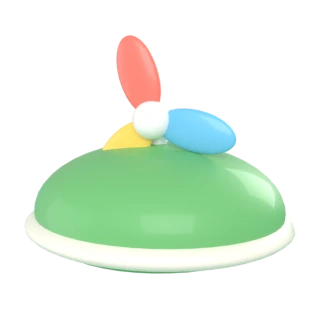
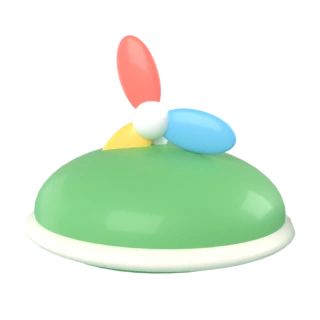
Fix stamp overlap for long landmark names and restore rig state after frame check
Review of the landmark PR found the visit stamp covering the pin for 대관령 옛길, and Rig.extent leaving the light rig yawed so thumbnails rendered on their own were lit differently from the existing ones. Re-rendered the two new thumbnails with the restored lighting and corrected stale counts in the docs.

diff --git a/app/src/main/java/com/example/roro/ui/screens/Popups.kt b/app/src/main/java/com/example/roro/ui/screens/Popups.kt
@@ -475,16 +475,21 @@ fun LandmarkUnlockModal(p: PendingPopup.Landmark, profile: Profile, equipped: Eq
         }
         LandmarkPin(PinState.Unlocked, Modifier.offset(x = (470f * scale).dp, y = (150f * scale).dp).size((64f * scale).dp))
         Box(
-            // Split은 도장 글자를 줄이지 않아 폭이 넓다: 핀(470)에 닿지 않게 왼쪽으로 당긴다
-            Modifier.offset(x = ((if (split) 270f else 300f) * scale).dp, y = (200f * scale).dp)
-                // 도장: 크게 떠 있다가 쿵 찍힌다
-                .graphicsLayer { val t = stamp.value; scaleX = 1.9f - 0.9f * t; scaleY = 1.9f - 0.9f * t; alpha = t.coerceIn(0f, 1f) }
-                .rotate(-10f)
-                .border((2f * scale).dp, KagomColor.Accent.stamp, RoundedCornerShape(10.dp)).padding(horizontal = (12f * scale).dp, vertical = (6f * scale).dp),
+            // 이름이 길면("대관령 옛길 방문") 도장이 넓어져 핀(470, 150~214)을 덮는다.
+            // Full: 오른쪽 끝을 핀 앞에 맞춰 왼쪽으로 늘어나게 한다.
+            // Split: 글자를 줄이지 않아 곰과 핀 사이에 다 들어가지 않는다 → 핀 아래로 내려 오른쪽으로 늘어나게 한다
+            Modifier.offset(x = ((if (split) 270f else 150f) * scale).dp, y = ((if (split) 240f else 200f) * scale).dp).width((312f * scale).dp),
+            contentAlignment = if (split) Alignment.TopStart else Alignment.TopEnd,
         ) {
-            Column(horizontalAlignment = Alignment.CenterHorizontally) {
+            Column(
+                // 도장: 크게 떠 있다가 쿵 찍힌다
+                Modifier.graphicsLayer { val t = stamp.value; scaleX = 1.9f - 0.9f * t; scaleY = 1.9f - 0.9f * t; alpha = t.coerceIn(0f, 1f) }
+                    .rotate(-10f)
+                    .border((2f * scale).dp, KagomColor.Accent.stamp, RoundedCornerShape(10.dp)).padding(horizontal = (12f * scale).dp, vertical = (6f * scale).dp),
+                horizontalAlignment = Alignment.CenterHorizontally,
+            ) {
                 // 도장 글자도 Split에서 Pleos 최소(20px) 아래로 줄이지 않는다
-                Text("${lm.name} 방문", style = if (split) KagomType.Caption14Strong else KagomType.Body18Strong, color = KagomColor.Accent.stamp)
+                Text("${lm.name} 방문", style = if (split) KagomType.Caption14Strong else KagomType.Body18Strong, color = KagomColor.Accent.stamp, maxLines = 1, softWrap = false)
                 Text(date, style = KagomType.Caption14Strong, color = KagomColor.Accent.stamp)
             }
         }

diff --git a/app/src/main/java/com/example/roro/core/Examples.kt b/app/src/main/java/com/example/roro/core/Examples.kt
@@ -42,7 +42,8 @@ object Examples {
 
     /**
      * Figma 140:4103 순서·출처 그대로 (03 랜드마크, 04 도전과제 …).
-     * 13·14는 Figma 첫 페이지 밖이라 보이지 않지만, 실제 2개 + 예시 12개 = 14개여야 Full 2페이지(140:4103)·Split 5페이지(140:4330)가 맞는다
+     * 13·14는 Figma 첫 페이지 밖이라 보이지 않는다. Figma(140:4103)는 실제 2개 + 예시 12개 = 14개 기준인데,
+     * 머리 아이템이 3개가 되면서(ITM-H-03) 지금은 15개다: 2페이지인 것은 같고 첫 페이지의 예시가 한 칸씩 밀린다
      */
     val items: List<Item> = listOf(
         3 to true, 4 to false, 5 to false, 6 to true, 7 to false, 8 to true, 9 to false, 10 to true, 11 to false, 12 to true,

diff --git a/tools/closet3d/build_closet.py b/tools/closet3d/build_closet.py
@@ -1016,6 +1016,9 @@ class Rig:
                 continue
             pts += [ev.matrix_world @ v.co for v in me.vertices]
             ev.to_mesh_clear()
+        # 조명이 yaw를 따라 돈다. 썸네일처럼 view()를 부르지 않는 렌더가 여기서 남긴 방향으로 찍히지 않게 원래대로 되돌린다
+        before = (self.yaw.rotation_euler.copy(), self.pitch.rotation_euler.copy(),
+                  self.sc.render.resolution_x, self.sc.render.resolution_y)
         worst = 0.0
         for row in range(len(TURN_ELEV)):
             for i in range(0, TURN_N, 2):
@@ -1023,6 +1026,8 @@ class Rig:
                 bpy.context.view_layer.update()
                 vs = [world_to_camera_view(self.sc, self.cam, p) for p in pts]
                 worst = max(worst, max(abs(v.x - 0.5) for v in vs) * 2, max(abs(v.y - 0.5) for v in vs) * 2)
+        self.yaw.rotation_euler, self.pitch.rotation_euler = before[0], before[1]
+        self.sc.render.resolution_x, self.sc.render.resolution_y = before[2], before[3]
         return worst
 
     def view(self, row, i, w, h):

diff --git a/docs/IMPLEMENTATION.md b/docs/IMPLEMENTATION.md
@@ -88,7 +88,7 @@
 - **Figma 정적 에셋**: `assets/popups/`의 지형(`63:3464`), 레벨업 광선(`225:4595`, `225:4650`)·월계관(`225:4624`, `225:4679`)은 Figma MCP Bridge 0.0.25 `get_screenshot` PNG scale=2, clip=true 내보내기다. 생성된 `assets/kagom` 및 `assets/regions`는 변경하지 않는다.
 - **팝업 시연**: 디버그 패널의 “팝업 미리보기” 또는 `--es demo_popup reward|reveal|landmark:LM-GN-01|landmark:LM-GN-02|landmark:LM-GN-03|level|maintenance|maintenance-ev|maintenance-done|off`. `Examples.popups`의 EX- 데이터만 사용하고 프로필·아이템·포인트·정비 기록을 저장하지 않는다. 기어 신호는 실제 앱과 같은 `--es demo_gear P|D`를 따른다. 프리뷰의 장착/정비소 버튼은 외부 변경을 실행하지 않으며 실제 저장 동작 검증과 구분한다. 검증 절차·스크린샷은 `docs/verification/popups/README.md` 참고.
 
-- **티어 기준 EXP**: 0 / 400 / 900 / 1,350 (디자인의 "티어 1→2 = 400"에 맞추고, 보상 EXP 총합 1,350으로 티어 4까지). 승급마다 블루멤버스 +1,000 P. QST-06(+150)이 더해져 지금 총합은 1,500이지만 이미 오른 티어가 내려가지 않게 기준은 그대로 뒀다 → 티어 4는 모든 보상을 받기 전에 닿는다.
+- **티어 기준 EXP**: 0 / 400 / 900 / 1,350 (디자인의 "티어 1→2 = 400"에 맞추고, 보상 EXP 총합 1,350으로 티어 4까지). 승급마다 블루멤버스 +1,000 P. QST-06(+150)과 랜드마크 두 곳(`LM-GN-04`·`05`, +300)이 더해져 지금 총합은 1,800이지만 이미 오른 티어가 내려가지 않게 기준은 그대로 뒀다 → 티어 4는 모든 보상을 받기 전에 닿는다.
 - **랜드마크 좌표·반경**: 정동진·안목 커피거리·주문진항 근처, 반경 400 m. 같은 곳은 하루 1회만 방문으로 센다.
 - **"랜드마크 3곳 방문"(QST-03)**은 서로 다른 장소 수, **"랜드마크 10회 방문"(QST-04)**은 전체 방문 수로 셌다 (Figma 문구 "3곳" + spec "10회").
 - **랜드마크 두 곳 추가 (2026-11-13, 가정)**: 강릉 서쪽 산지의 안반데기(`LM-GN-04`, 왕산면)와 대관령 옛길(`LM-GN-05`, 성산면). 스펙·Figma(3곳)에 없는 곳이라 아래는 모두 정한 값이다.
@@ -195,7 +195,7 @@
 - 치장의 잠긴 랜드마크 보상에서 [지도에서 보기]를 누르면 그 랜드마크의 시·군 지도로 바로 들어가 구획을 고르고 상세를 띄운다 (`MapScreen(focusLandmarkId)`).
 - 정차 중 선택한 랜드마크 상세는 Full의 지도 오른쪽과 Split의 시트에 표시한다. 상세 패널의 화살표(Split은 ×)를 누르면 현재 지도 단계와 구획을 유지하면서 목록으로 돌아간다. 방문 완료는 최초 방문일, 보상, 현재 스킨·착장을 반영한 카곰과 손 흔들기를 보여 준다. 미방문은 풍경을 잠그고 위치가 있으면 직선거리를 표시하며, 버튼은 목적지 좌표를 외부 길 안내에 넘긴다. 보상을 기다리는 중에는 풍경 잠금을 유지한다.
 - 방문 완료 상세의 [이곳의 기록]에서 장소 사진을 볼 수 있다. 썸네일은 전체 화면 뷰어를 열고, 좌우 버튼이나 스와이프로 사진을 넘긴다. 뷰어에는 원본 사진의 촬영일을 표시한다. 사진은 앱에 포함하며, 장소별 사진과 출처는 `LandmarkPhotos.kt`에 등록한다.
-- 풍경은 `Landmark.scenery` 범주와 `ExperienceDetails.kt`의 `sceneryVariants`로 고른다. 같은 장소의 풍경은 재진입 시 바뀌지 않도록 장소 ID로 선택한다. 현재 등록된 세 곳은 해안 풍경을 공유한다. 상세에서는 홈과 같은 3D 렌더 프레임을 사용한다. 만세와 손 흔들기 프레임이 끝나면 현재 표정으로 돌아온다.
+- 풍경은 `Landmark.scenery` 범주와 `ExperienceDetails.kt`의 `sceneryVariants`로 고른다. 같은 장소의 풍경은 재진입 시 바뀌지 않도록 장소 ID로 선택한다. 바닷가 세 곳은 해안 풍경을 같이 쓰고, 안반데기는 고랭지 언덕, 대관령 옛길은 숲길 풍경이다. 상세에서는 홈과 같은 3D 렌더 프레임을 사용한다. 만세와 손 흔들기 프레임이 끝나면 현재 표정으로 돌아온다.
 - 핀 이름표는 핀 오른쪽에 두고, 공간이 부족하면 핀 아래에 둔다. Full에서는 방문 상태와 보상 이름을 이름표에 함께 표시한다.
 - 방문 상태는 미방문 / 해금 중 / 방문 완료다. 해금 중에는 목록에 "해금 중 · 정차하면 보상 지급"이라고 표시한다. Figma 목록 핀에는 해금 중이 없어 지도 핀(`LandmarkPin` Unlocking)과 같은 색·점으로 그렸다 (가정).
 - 강릉의 1읍·7면과 시내 13개 동을 9개 구획으로 표시한다. 핀은 기존 랜드마크 위경도를 지도 경계와 같은 방식으로 투영한다. 정차 중에는 핀이나 목록에서 보상 상세를 열 수 있다. 주행 중에는 상세 대신 "기어 P에서 핀 상세를 볼 수 있어요"를 알린다 (Full: 지도 왼쪽 아래 안내 글이 그 말로 바뀐다, Split: 핀을 누르면 뜬다). 미방문 보상은 이름과 잠긴 마크를 표시한다.

diff --git a/README.md b/README.md
@@ -15,7 +15,7 @@ Kotlin + Jetpack Compose, 모듈 하나(`app`). 차량 신호와 위치는 Pleos
 | SCR-03 홈 | 연료·배터리, 엔진오일·브레이크액·미션오일·워셔액, 엔진 경고, 정비 주기(엔진오일 교체·1만 km 점검)에 따라 카곰 표정과 상태 행이 바뀐다. 탭 반응, 돌려보기 |
 | SCR-04 도전과제 | 주행 거리·랜드마크 방문·정기 점검 도전과제 5개, EXP와 티어 |
 | SCR-05 랜드마크 지도 | 전국 → 시·도 → 시·군·구 3단계. 랜드마크 근처에 주차(기어 P)하면 방문으로 인정하고 구획을 해금한다 |
-| SCR-06 치장 | 아이템 6종·칭호 장착, 위아래·좌우 돌려보기, 페이지 넘김 |
+| SCR-06 치장 | 아이템 8종·칭호 장착, 위아래·좌우 돌려보기, 페이지 넘김 |
 | POP-01~05 | 주행 중 토스트, 보상 언박싱, 랜드마크 해금, 티어 승급, 정비 시트 |
 
 **주행 중(기어 P 아님)** 에는 저장·장착·돌려보기·터치 반응·팝업·상세 카드를 막거나 숨기고, 팝업은 P가 될 때까지 기다린다.
